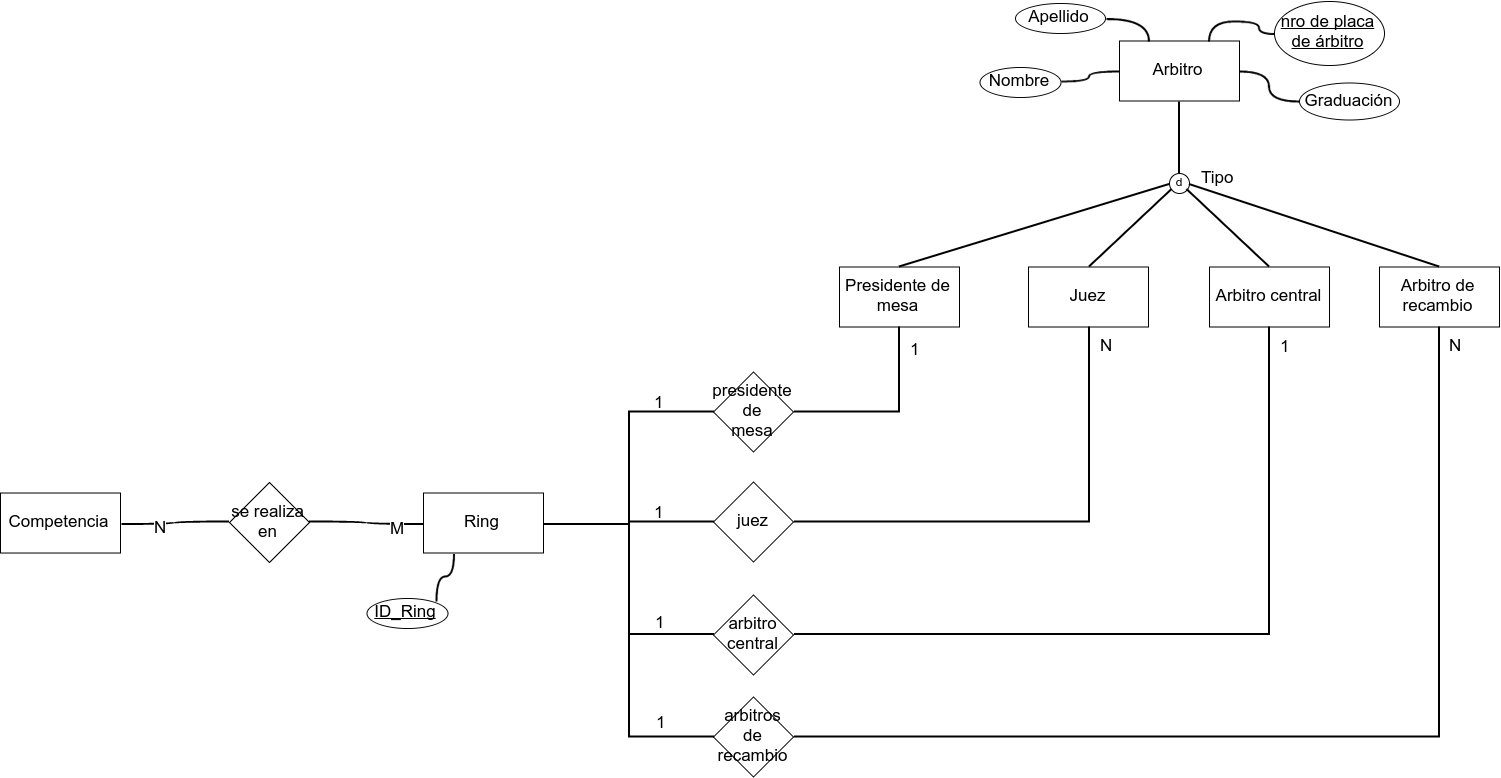
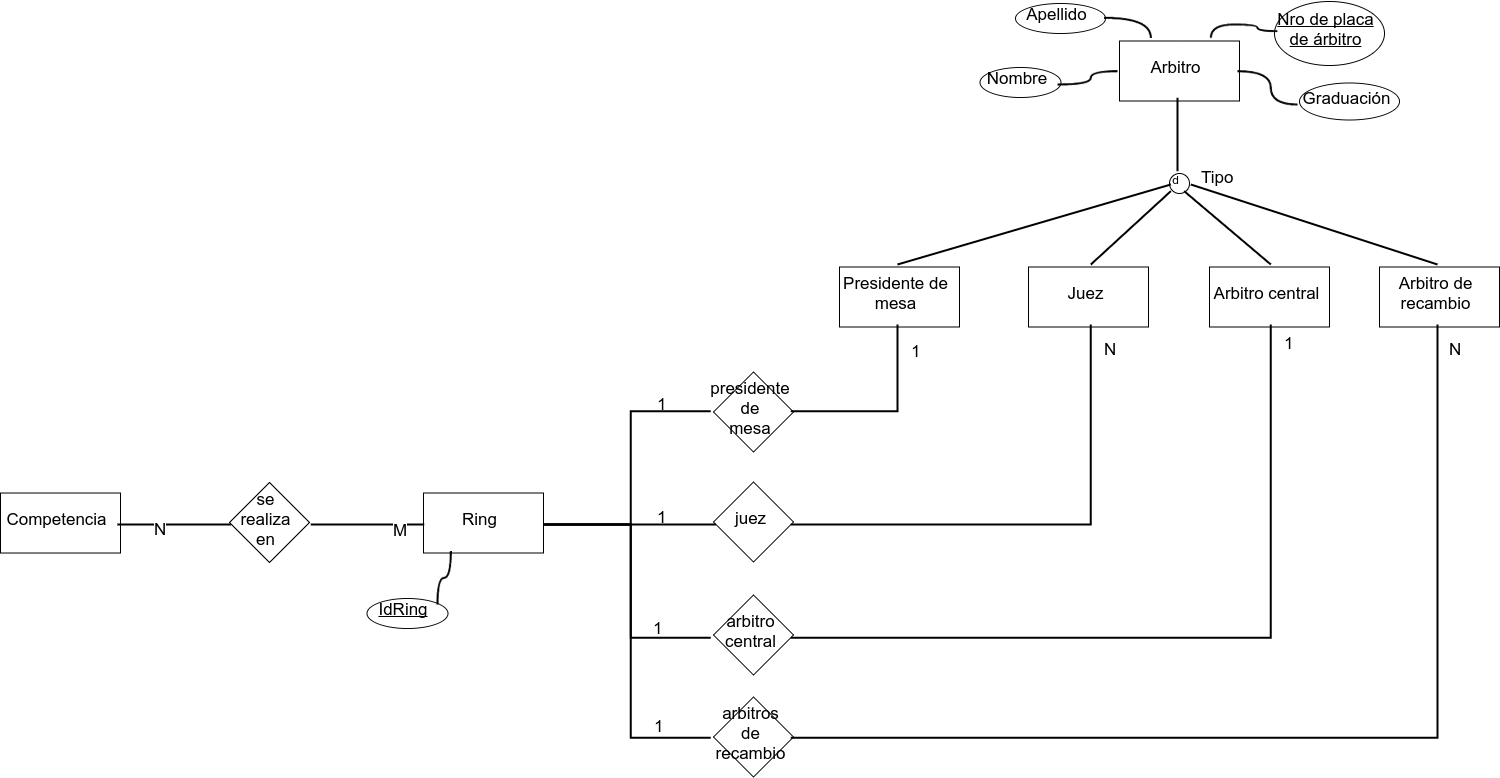
ReExportadas las imagenes, conclusión y detalles varios

diff --git a/latex/restricciones.tex b/latex/restricciones.tex
@@ -9,8 +9,8 @@ En esta sección están especificadas todas las restricciones adicionales del ME
 \item Todo competidor que no pertenece a un equipo, tiene el atributo ``Titular'' en NULL.
 \item Todo competidor inscripto en una competencia es acompañado por un coach enviado por la misma escuela que lo inscribió.
 \item Todo equipo inscripto en una competencia es acompañado por un coach enviado por la misma escuela que inscribió a los competidores del equipo.
-\item Ningún competidor puede ser acompañado en una competencia por un coach que tenga el mismo ``ID_Alumno''.
-\item Ningún equipo puede ser acompañado en una competencia por un coach que tenga el mismo ``ID_Alumno'' que alguno de sus integrantes.
+\item Ningún competidor puede ser acompañado en una competencia por un coach que tenga el mismo ``DNI''.
+\item Ningún equipo puede ser acompañado en una competencia por un coach que tenga el mismo ``DNI'' que alguno de sus integrantes.
 \item Todas las competencias que tengan atributo ``Graduación'' deben ser realizadas en rings donde el juez de mesa sea un árbitro con graduación mayor a la de la competencia.
 \item Todas las competencias que tengan atributo ``Graduación'' deben ser realizadas en rings donde todos los jueces sean árbitros con graduación mayor a la de la competencia.
 \item Todas las competencias que tengan atributo ``Graduación'' deben ser realizadas en rings donde el árbitro central sea un árbitro con graduación mayor a la de la competencia.
@@ -25,23 +25,23 @@ En esta sección están especificadas todas las restricciones adicionales del ME
 \begin{itemize}
 \item \textbf{Herencias de Alumno:}
 \begin{itemize}
-\item Competidor.ID\_Alumno debe estar en Alumno.ID\_Alumno.
-\item Coach.ID\_Alumno debe estar en Alumno.ID\_Alumno.
-\item Alumno.ID\_Alumno debe estar en Competidor.ID\_Alumno o (no excluyente) Coach.ID\_Alumno.
+\item Competidor.DNI debe estar en Alumno.DNI.
+\item Coach.DNI debe estar en Alumno.DNI.
+\item Alumno.DNI debe estar en Competidor.DNI o (no excluyente) Coach.DNI.
 \end{itemize}
 \item \textbf{Herencias de Competencia:}
 \begin{itemize}
-\item CompetenciaCombateEquipo.ID\_Competencia debe estar en Competencia.ID\_Competencia
-\item CompetenciaIndividual.ID\_Competencia debe estar en Competencia.ID\_Competencia
-\item Competencia.ID\_Competencia debe estar en CompetenciaCombateEquipo.ID\_Competencia o (excluyente) en CompetenciaIndividual.ID\_Competencia.
+\item CompetenciaCombateEquipo.IdCompetencia debe estar en Competencia.IdCompetencia
+\item CompetenciaIndividual.IdCompetencia debe estar en Competencia.IdCompetencia
+\item Competencia.IdCompetencia debe estar en CompetenciaCombateEquipo.IdCompetencia o (excluyente) en CompetenciaIndividual.IdCompetencia.
 \end{itemize}
 \item \textbf{Herencias de CompetenciaIndividual:}
 \begin{itemize}
-\item CompetenciaSalto.ID\_Competencia debe estar en CompetenciaIndividual.ID\_Competencia
-\item CompetenciaFormas.ID\_Competencia debe estar en CompetenciaIndividual.ID\_Competencia
-\item CompetenciaRotura.ID\_Competencia debe estar en CompetenciaIndividual.ID\_Competencia
-\item CompetenciaCombateIndividual.ID\_Competencia debe estar en CompetenciaIndividual.ID\_Competencia
-\item CompetenciaIndividual.ID\_Competencia debe estar en CompetenciaSalto.ID\_Competencia o (excluyente) en CompetenciaFormas.ID\_Competencia o (excluyente) en CompetenciaRotura.ID\_Competencia o (excluyente) en CompetenciaCombateIndividual.ID\_Competencia.
+\item CompetenciaSalto.IdCompetencia debe estar en CompetenciaIndividual.IdCompetencia
+\item CompetenciaFormas.IdCompetencia debe estar en CompetenciaIndividual.IdCompetencia
+\item CompetenciaRotura.IdCompetencia debe estar en CompetenciaIndividual.IdCompetencia
+\item CompetenciaCombateIndividual.IdCompetencia debe estar en CompetenciaIndividual.IdCompetencia
+\item CompetenciaIndividual.IdCompetencia debe estar en CompetenciaSalto.IdCompetencia o (excluyente) en CompetenciaFormas.IdCompetencia o (excluyente) en CompetenciaRotura.IdCompetencia o (excluyente) en CompetenciaCombateIndividual.IdCompetencia.
 \end{itemize}
 \item \textbf{Herencias de Árbitro:}
 \begin{itemize}
@@ -53,26 +53,26 @@ En esta sección están especificadas todas las restricciones adicionales del ME
 \end{itemize}
 \item \textbf{Claves foráneas:}
 \begin{itemize}
-\item Maestro.ID\_Pais debe estar en Pais.ID\_Pais.
-\item Escuela.ID\_Pais debe estar en Pais.ID\_Pais.
+\item Maestro.IdPais debe estar en Pais.IdPais.
+\item Escuela.IdPais debe estar en Pais.IdPais.
 \item Escuela.NroDePlacaDeInstructor debe estar en Maestro.NroDePlacaDeInstructor.
-\item Competidor.ID\_Escuela debe estar en Escuela.ID\_Escuela.
-\item Escuela.ID\_Equipo debe estar en Equipo.ID\_Equipo o ser NULL.
-\item Coach.ID\_Escuela debe estar en Coach.ID\_Escuela.
-\item Árbitro.ID\_pais debe estar en Pais.ID\_Pais.
-\item CompetenciaIndividual.PrimerLugar debe estar en Competidor.ID\_Alumno.
-\item CompetenciaIndividual.SegundoLugar debe estar en Competidor.ID\_Alumno.
-\item CompetenciaIndividual.TercerLugar debe estar en Competidor.ID\_Alumno.
-\item CompetenciaCombateEquipo.PrimerLugar debe estar en Competidor.ID\_Alumno.
-\item CompetenciaCombateEquipo.SegundoLugar debe estar en Competidor.ID\_Alumno.
-\item CompetenciaCombateEquipo.TercerLugar debe estar en Competidor.ID\_Alumno.
-\item SeRealizaEn.ID\_Competencia debe estar en Competencia.ID\_Competencia.
-\item SeRealizaEn.ID\_Ring debe estar en Ring.ID\_Ring.
-\item InscriptoEn.ID\_Competencia debe estar en Competencia.ID\_Competencia.
-\item InscriptoEn.ID\_Competidor debe estar en Competidor.ID\_Alumno.
-\item InscriptoEn.ID\_Coach debe estar en Coach.ID\_Alumno.
-\item InscriptoEn.ID\_Competencia debe estar en Competencia.ID\_Competencia.
-\item InscriptoEn.ID\_Equipo debe estar en Equipo.ID\_Equipo.
-\item InscriptoEn.ID\_Coach debe estar en Coach.ID\_Alumno.
+\item Competidor.IdEscuela debe estar en Escuela.IdEscuela.
+\item Escuela.IdEquipo debe estar en Equipo.IdEquipo o ser NULL.
+\item Coach.IdEscuela debe estar en Coach.IdEscuela.
+\item Árbitro.IdPais debe estar en Pais.IdPais.
+\item CompetenciaIndividual.PrimerLugar debe estar en Competidor.DNI.
+\item CompetenciaIndividual.SegundoLugar debe estar en Competidor.DNI.
+\item CompetenciaIndividual.TercerLugar debe estar en Competidor.DNI.
+\item CompetenciaCombateEquipo.PrimerLugar debe estar en Competidor.DNI.
+\item CompetenciaCombateEquipo.SegundoLugar debe estar en Competidor.DNI.
+\item CompetenciaCombateEquipo.TercerLugar debe estar en Competidor.DNI.
+\item SeRealizaEn.IdCompetencia debe estar en Competencia.IdCompetencia.
+\item SeRealizaEn.IdRing debe estar en Ring.IdRing.
+\item InscriptoEn.IdCompetencia debe estar en Competencia.IdCompetencia.
+\item InscriptoEn.IdCompetidor debe estar en Competidor.DNI.
+\item InscriptoEn.IdCoach debe estar en Coach.DNI.
+\item InscriptoEn.IdCompetencia debe estar en Competencia.IdCompetencia.
+\item InscriptoEn.IdEquipo debe estar en Equipo.IdEquipo.
+\item InscriptoEn.IdCoach debe estar en Coach.DNI.
 \end{itemize}
 \end{itemize}

diff --git a/latex/MER.tex b/latex/MER.tex
@@ -7,7 +7,7 @@ centrar cada parte en una o dos entidades si sus interrelaciones.
   \caption{Diagrama centrado en Alumno y Competidor}
 \end{figure}
 
-Los alumnos pueden adoptar el rol de un competidor o del coach. A su vez, un competidor puede, o no, formar parte de un equipo
+Los alumnos pueden adoptar el rol de un competidor o de un coach. A su vez, un competidor puede formar parte de un equipo
 . Se distinguen a los competidores pertenecientes a un equipo por su atributo titular, este indica si se trata de un titular
 del equipo o un suplente. En el caso de que no pertenezca a ningún equipo, el atributo titular queda vacío.
 
@@ -28,7 +28,7 @@ rings(al menos uno).
   \caption{Diagrama centrado en Competencia}
 \end{figure}
 
-Las competencias se dividen entre las que son individuales y en las cuales participan equipos. De esta última solo se tiene
+Las competencias se dividen en individuales y por equipos. De esta última solo se tiene
  como modalidad a las competencias de combate por equipos, en cambio las competencias individuales poseen 4
  modalidades diferentes. Estas son Salto, Formas, Combate individual, Rotura. Cada una con sus parámetros de participación
  (sexo, edad, etc).
@@ -39,8 +39,8 @@ Las competencias se dividen entre las que son individuales y en las cuales parti
   \caption{Diagrama centrado en Competidor y Competencia}
 \end{figure}
 
-Los competidores se pueden inscribir en una o varias competencias individuales, esto lo hacen supervisado por un coach. A su
-vez, el coach puede tener varios de sus competidores inscriptos a una misma competencia. Cada competencia registra a los
+Los competidores se pueden inscribir en una o varias competencias individuales supervisados por un coach. A su
+vez, el coach puede tener varios de sus competidores inscriptos en una misma competencia. Cada competencia registra a los
 competidores que quedaron en los primeros tres lugares.
 
 \begin{figure}[H]
@@ -49,7 +49,7 @@ competidores que quedaron en los primeros tres lugares.
   \caption{Diagrama centrado en Equipo y Competencia}
 \end{figure}
 
-Similar que el anterior, pero con las competencias por equipos. La principal diferencia es que en la inscripción, debido a
+Similar al anterior, pero con las competencias por equipos. La principal diferencia es que en la inscripción, debido a
 la cantidad de miembros que deben componer un equipos y la cantidad de competidores que puede supervisar un coach, solamente puede quedar inscripto un equipo por cada
 coach en una determinada categoría.
 
@@ -60,4 +60,4 @@ coach en una determinada categoría.
 \end{figure}
 
 Por último tenemos que tanto Maestros, Árbitros y Escuelas proceden de determinados países. Además cada
-escuela posee alumnos y a un maestro que se encarga de la inscripción de los mismos en las competencias.
+escuela posee alumnos y un maestro que se encarga de la inscripción de los mismos en las competencias.

diff --git a/latex/MR.tex b/latex/MR.tex
@@ -62,36 +62,36 @@ PK = \{NroDePlacaDeÁrbitro\}\\
 CK = \{NroDePlacaDeÁrbitro\}\\
 FK = \{NroDePlacaDeÁrbitro, IdRing\}\\
 \\
-\textbf{Competencia}(\uline{IdCompetencia}, Tipo)\\
+\textbf{Competencia}(\uline{IdCompetencia}, Sexo, Tipo)\\
 PK = \{IdCompetencia\}\\
 CK = \{IdCompetencia\}\\
 \\
-\textbf{CompetenciaCombateEquipo}(\dashuline{\uline{IdCompetencia}}, Edad, Sexo, \dashuline{PrimerLugar}, \dashuline{SegundoLugar}, \dashuline{TercerLugar})\\
-PK = \{IdCompetencia\}\\
-CK = \{IdCompetencia\}\\
-FK = \{IdCompetencia, PrimerLugar, SegundoLugar, TercerLugar\}\\
-\\
-\textbf{CompetenciaIndividual}(\dashuline{\uline{IdCompetencia}}, Modalidad, \dashuline{PrimerLugar}, \dashuline{SegundoLugar}, \dashuline{TercerLugar})\\
+\textbf{CompetenciaCombateEquipo}(\dashuline{\uline{IdCompetencia}}, Edad, \dashuline{PrimerLugar}, \dashuline{SegundoLugar}, \dashuline{TercerLugar})\\
 PK = \{IdCompetencia\}\\
 CK = \{IdCompetencia\}\\
 FK = \{IdCompetencia, PrimerLugar, SegundoLugar, TercerLugar\}\\
 \\
-\textbf{CompetenciaSalto}(\dashuline{\uline{IdCompetencia}}, Sexo, Edad, Graduacion)\\
+\textbf{CompetenciaIndividual}(\dashuline{\uline{IdCompetencia}}, Modalidad, Graduacion, \dashuline{PrimerLugar}, \dashuline{SegundoLugar}, \dashuline{TercerLugar})\\
+PK = \{IdCompetencia\}\\
+CK = \{IdCompetencia\}\\
+FK = \{IdCompetencia, PrimerLugar, SegundoLugar, TercerLugar\}\\
+\\
+\textbf{CompetenciaSalto}(\dashuline{\uline{IdCompetencia}}, Edad)\\
 PK = \{IdCompetencia\}\\
 CK = \{IdCompetencia\}\\
 FK = \{IdCompetencia\}\\
 \\
-\textbf{CompetenciaFormas}(\dashuline{\uline{IdCompetencia}}, Sexo, Edad, Graduacion)\\
+\textbf{CompetenciaFormas}(\dashuline{\uline{IdCompetencia}}, Edad)\\
 PK = \{IdCompetencia\}\\
 CK = \{IdCompetencia\}\\
 FK = \{IdCompetencia\}\\
 \\
-\textbf{CompetenciaCombateIndividual}(\dashuline{\uline{IdCompetencia}}, Sexo, Edad, Graduacion, Peso)\\
+\textbf{CompetenciaCombateIndividual}(\dashuline{\uline{IdCompetencia}}, Edad, Peso)\\
 PK = \{IdCompetencia\}\\
 CK = \{IdCompetencia\}\\
 FK = \{IdCompetencia\}\\
 \\
-\textbf{CompetenciaRotura}(\dashuline{\uline{IdCompetencia}}, Sexo, Graduacion)\\
+\textbf{CompetenciaRotura}(\dashuline{\uline{IdCompetencia}})\\
 PK = \{IdCompetencia\}\\
 CK = \{IdCompetencia\}\\
 FK = \{IdCompetencia\}\\

diff --git a/latex/conclusion.tex b/latex/conclusion.tex
@@ -1,0 +1,11 @@
+El diseño y construcción de la base de datos para el Campeonato Mundial de Taekwon-do ITF, resulto en un desafío interesante
+para comprobar la efectividad de los modelos y conceptos aprendidos en la materia.
+ A lo largo del trabajo práctico nos vimos forzados a repensar varias veces algunas de las partes de nuestro modelo de entidad relación. Algunas de estas fueron la representación del alumno como
+competidor individual y como parte de un equipo, la forma en que se representaban las competencias y su relación tanto con
+sus competidores como con los ganadores de los primeros tres puestos y la manera en que se asociaban los distintos tipos de
+árbitros con los Rings donde se realizaban las competencias. Todos estos problemas aparecieron durante el armado del diagrama de entidad
+relación y, por lo tanto, no se necesito realizar cambios demasiado complicados en la base de datos durante su implementación. El diseño de la base de datos resulto simple gracias al modelo
+relacional extraído a partir del MER y, a su vez, las restricciones de los mismos fueron muy útiles
+para definir los triggers que se necesitaban para garantizar el correcto manejo de los datos. Podríamos concluir que, a pesar de las dificultades que surgieron,
+el modelo de entidad relación simplifica enormemente la implementación de una base de datos y dificulta la aparición de
+errores graves de diseño a lo largo de la misma.

diff --git a/latex/intro.tex b/latex/intro.tex
@@ -1,5 +1,5 @@
-En el presente Trabajo Práctico diseñamos e implementamos una base de datos para el Campeonato Mundial de Taekwon-do ITF,
-esta base permite la inscripción de competidores, en las diferentes modalidades y categorías, para escuelas de todo el mundo.
+En el presente Trabajo Práctico diseñamos e implementamos una base de datos para el Campeonato Mundial de Taekwon-do ITF. Esta
+base permite la inscripción de competidores, en las diferentes modalidades y categorías, para escuelas de todo el mundo.
 Para realizar esta labor construimos un Modelo de Entidad Relación(MER) y lo implementamos utilizando un motor de base
 de datos. A lo largo del presente informe detallamos las distintas partes del MER (diagrama entidad relación, restricciones,
 modelo relacional) y mostraremos la documentación del diseño físico de la base junto con el código de la misma.

diff --git a/latex/informe.tex b/latex/informe.tex
@@ -87,9 +87,9 @@
 \submateria{Primer Cuatrimestre de 2017}
 \titulo{Trabajo Práctico I}
 \integrante{Federico De Rocco}{408/13}{fede.183@hotmail.com}
+\integrante{Iván Arcuschin Moreno}{678/13}{iarcuschin@gmail.com}
 \integrante{Jos\'e Massigoge}{954/12}{jmmassigoge@gmail.com}
 \integrante{Laouen Mayal Louan Belloli}{134/11}{laouen.belloli@gmail.com}
-\integrante{Iván Arcuschin Moreno}{678/13}{iarcuschin@gmail.com}
 \maketitle
 % no footer on the first page
 \thispagestyle{empty}

diff --git a/latex/page.layout.tex b/latex/page.layout.tex
@@ -4,7 +4,7 @@
 \renewcommand{\sectionmark}[1]{\markright{\thesection\ - #1}}
 \fancyhf{}
 \fancyhead[LO]{Sección \rightmark} % \thesection\
-\fancyfoot[LO]{\small{Federico De Rocco, Jos\'e Massigoge, Leandro Anacondio}}
+\fancyfoot[LO]{\small{Federico De Rocco, Iván Arcuschin Moreno, Jos\'e Massigoge, Laouen Mayal Louan Belloli}}
 \fancyfoot[RO]{\thepage}
 \renewcommand{\headrulewidth}{0.5pt}
 \renewcommand{\footrulewidth}{0.5pt}
